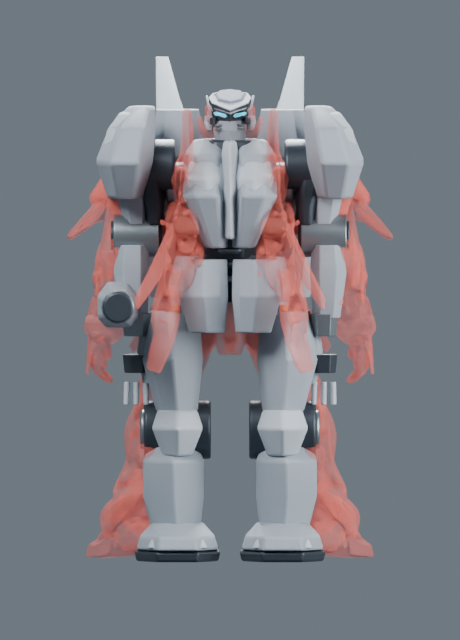
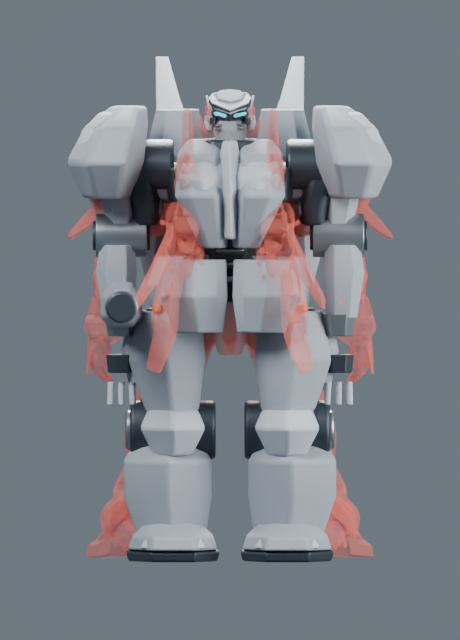
隠れていた側を直す指示書を作り、Codex へ引き継ぎ (ref: instructions/2026-11-23e_hidden_sides.md)

diff --git a/instructions/2026-11-23e_hidden_sides.md b/instructions/2026-11-23e_hidden_sides.md
@@ -1,0 +1,80 @@
+# 指示書：隠れていた側（真横・背面・足の裏）を直す
+
+対象：Codex CLI（実装担当）／作成：Claude Code 2026-11-23
+会話の文脈なしで着手できるように書いてある。迷ったら自己判断せず `HANDOFF.md` に書いて止まること。
+
+## 0. まずこれを走らせる（毎回）
+
+```
+python tools/inspect_mech.py
+```
+
+開発者の指示（2026-11-23）：
+> 「はみ出しをなくすのもいいけど、それに意識を取られすぎて隠れた部分を見逃さないように。
+> 監視用というか外部監督官のようなものをロジックとして組み込んどいて」
+
+この検査がその監督役。**機体モデルを変えたら必ず走らせ、`docs/visual_log/inspection/report.md` を
+読んでから次へ進むこと。** NG が 0 件であることに加えて、
+`sheet_hero.jpg` の **背面・真上・真下を目で見る**（穴・貫通・裏返り・のっぺりは正面からは見えない）。
+
+## 1. 先に読むもの
+- `AGENTS.md` §6（分担）と §7（監督役。2026-11-23 追加）
+- `SPEC.md` §0.18 のうち
+  - 「全機体のプロポーション」（第 46 版）… 部位の位置と当たり判定。**この表と実物は必ず一致**
+  - 「幅は三面図から実測する」（第 47 版）
+  - 「画像から起こした立体を下絵に使う」（第 48 版）
+- `HANDOFF.md` の上から 2 件
+
+## 2. いまの状態
+
+主役機はゲーム画面に出るところまで来ている（Codex が実装済み）。
+形は決定稿の比率に合わせたが、**正面ばかり見ていたため隠れた側が崩れている**。
+
+監督役が出した指摘（`docs/visual_log/inspection/`）：
+
+| 見る場所 | 問題 |
+|---|---|
+| 真横（`view_side.png`） | **前後の厚みが足りず板のよう**。下絵との差で「足りない 40%」 |
+| 背面（`view_rear.png`） | **のっぺり**。推進ユニットの噴射口・放熱板が無く、ブレードが生えているだけ |
+| 真下（`view_bottom.png`） | **足の裏が真っ黒**。面が無いか、法線が裏返っている |
+
+## 3. やること（この順で）
+
+### 3-1. 足の裏（まず不具合から）
+`view_bottom.png` で足の裏が黒い。`tools/blender/mech_hero.py` の `Foot` を調べ、
+底面の有無と法線の向きを直す。量産機（`mech_b.py`）も同じなら両方直す。
+
+### 3-2. 前後の厚み
+真横から見て板にならないようにする。`SPEC.md` §0.18 の決定稿（`reference/ref_body.jpg`）と
+下絵（`docs/visual_log/14_image_to_3d/models/hero_ref.glb`）を見ながら、
+胸・腰・腿・すねの **奥行き（Blender の y 方向）** を増やす。
+- 下絵を重ねて確かめられる：
+  `blender --background --python tools/blender/mech_hero.py -- --out <出力先> --reference docs/visual_log/14_image_to_3d/models/hero_ref.glb`
+  （薄い赤が下絵。赤がはみ出ている所がこちらの足りない所）
+- **幅を変えたら当たり判定と SPEC の表も同時に直す**。監督役が食い違いを NG にする
+
+### 3-3. 背面の推進ユニット
+`BackPack` に噴射口（円筒のくぼみ）と放熱板（段差のある薄板）を足し、背面から見て
+のっぺりしないようにする。決定稿の背面図は `docs/visual_log/13_hero_body/reference/view_sheet.jpg` の右端。
+
+## 4. 触ってはいけないもの
+ノード名、`MuzzlePoint` の位置、`BROKEN_VISUAL` と `VISUAL_PARTS` の対応表、操作方法、性能の数値。
+当たり判定は「見た目に合わせて動かす」のは可。ただし **SPEC の表も必ず同時に直す**。
+
+## 5. 確認
+1. `python tools/inspect_mech.py` で **NG 0 件**、かつ背面・真上・真下の絵を目で見て問題なし
+2. 自動テスト 33 本（判定付き 31 本）すべて合格
+   - **未確認**：2026-11-23 の最後に幅を広げたあと、テストを流しかけたまま結果を見ていない。
+     まずこれを通し切ること
+3. ゲーム内のスクショ：
+   `<Godot> --path . --script res://tools/shot_set.gd -- --tag=mech_front --out=docs/visual_log/tmp`
+
+## 6. 止まって相談すること
+- 厚みを増やすと当たり判定を大きく変えないと成立しない場合
+- 下絵と決定稿の絵が食い違う場合（決定稿の絵が正。下絵はあくまで参考）
+
+## 7. 記録と引き継ぎ
+- commit メッセージに `(ref: instructions/2026-11-23e_hidden_sides.md)` を含める
+- 終わったら `HANDOFF.md` に書く
+- **push はしない**（開発者の承認後）
+- 終わったらこの指示書を `instructions/done/` へ移す

diff --git a/HANDOFF.md b/HANDOFF.md
@@ -4,7 +4,29 @@
 
 ---
 
-## 2026-11-23 [Codex → Claude Code] 主役機を戦場に表示。開発者の画面確認待ち
+## 2026-11-23 [Claude Code → Codex] 隠れていた側を直す。監督役を組み込んだので必ず使うこと
+
+- ステータス：引き継ぎ（Codex が実装）。Claude Code のセッション枠が尽きるため渡す
+- 関連：`instructions/2026-11-23e_hidden_sides.md`（**新しい指示書。これを読んで着手する**）、
+  `AGENTS.md` §7、SPEC §0.18 第 46〜48 版
+- **最優先の未確認事項**：
+  最後に幅を広げたあと（コミット a096fb3）、**自動テスト 33 本を流しかけたまま結果を見ていない**。
+  まずこれを通し切ること。当たり判定を ±0.82 → ±0.95、脚を ±0.46 → ±0.50 に動かしてある
+- Claude Code がこのセッションでやったこと：
+  1. 画像から 3D を起こす道具をこの PC に入れた（TripoSG、MIT、ローカル完結。SPEC 第 48 版）。
+     決定稿から起こした立体を `docs/visual_log/14_image_to_3d/models/hero_ref.glb` に収録し、
+     `mech_hero.py --reference <glb>` で**下絵として薄い赤で重ねられる**ようにした
+  2. 下絵に合わせて肩・腰・脚の幅を戻した（絞りすぎていた）
+  3. **監督役 `tools/inspect_mech.py` を追加**（開発者の指示）。
+     SPEC の表と実物の 食い違いを NG にし、背面・真上・真下を含む 8 方向を撮る
+- 監督役が見つけた未解決の 3 件（指示書 §3 がこの順）：
+  1. 足の裏が真っ黒（面が無いか法線が裏返り）
+  2. 真横から見て板のように薄い（下絵との差で「足りない 40%」）
+  3. 背面がのっぺり（噴射口・放熱板が無い）
+- 開発者の言葉：「はみ出しをなくすのもいいけど、それに意識を取られすぎて隠れた部分を見逃さないように」
+- 戻し先：終わったら `HANDOFF.md` に書く。push は開発者の承認後
+
+## 2026-11-23 [Codex → Claude Code] 主役機を戦場に表示。開発者の画面確認待ち (解決済み)
 
 - ステータス：レビュー待ち（ローカル作業。コミット・push は未実施）。関連は TODO N8-3f、`instructions/done/2026-11-23d_hero_in_game.md`。
 - 実装前にプロポーション変更後の33本を最後まで実行した。内訳は合否判定付き31本と自動プレイ・撮影各1本。31本すべて合格と出たが、開発ツリーのテストには実行時エラーが1件あった。敵3機に続き弾（Bullet）も敵機として撃破しようとしたことを再現。戦闘側の敵機一覧を使うようテストを修正し、主役機の実装前に単独で再合格を確認した。

diff --git a/TODO.md b/TODO.md
@@ -210,6 +210,8 @@ SPEC §0.11 より：
   - [x] 全身の絵を描かせるプロンプトを `docs/visual_log/13_hero_body/prompt.md` に用意
   - [ ] 開発者が絵を出す → `13_hero_body/reference/` に収録 → SPEC に要点を言語化 → Blender で全身へ
 - [~] **N8-3f：主役機をゲーム画面に出す**（Codex 実装・検証済み。開発者の画面確認待ち。指示書 `instructions/done/2026-11-23d_hero_in_game.md`）。開始機だけに主役機を表示し、乗り換え後も固定。自動テスト31本合格、自動プレイ・撮影も実行済み。正面と戦闘視点の画像は `docs/visual_log/13_hero_body/in_game/`。確認手順は HANDOFF.md 冒頭。
+- [ ] **N8-3g：隠れていた側（真横の厚み・背面・足の裏）を直す**（担当：**Codex**。指示書 `instructions/2026-11-23e_hidden_sides.md`。`python tools/inspect_mech.py` を毎回走らせる）
+  - [ ] 幅を広げたあとのテスト 33 本が未確認（最優先）
 - [ ] **N8-3e：`mech_detail.gd` の計算形を新プロポーションに合わせる**（SPEC §0.18 第 46 版の表。`.glb` が無いときの予備なので優先度は低い）
 - [ ] **N8-3c：顔で陣営を見分けられるようにする**（担当：Codex。主役機＝二つ目／味方量産機＝横長バイザー／敵機＝単眼。SPEC §0.18 第 43 版。主役機の顔が決まった後）
 - [ ] **N8-4：戦場の奥行き**（次の候補。批評役の指摘：中距離に土塁、遠景に低い稜線を置く）
